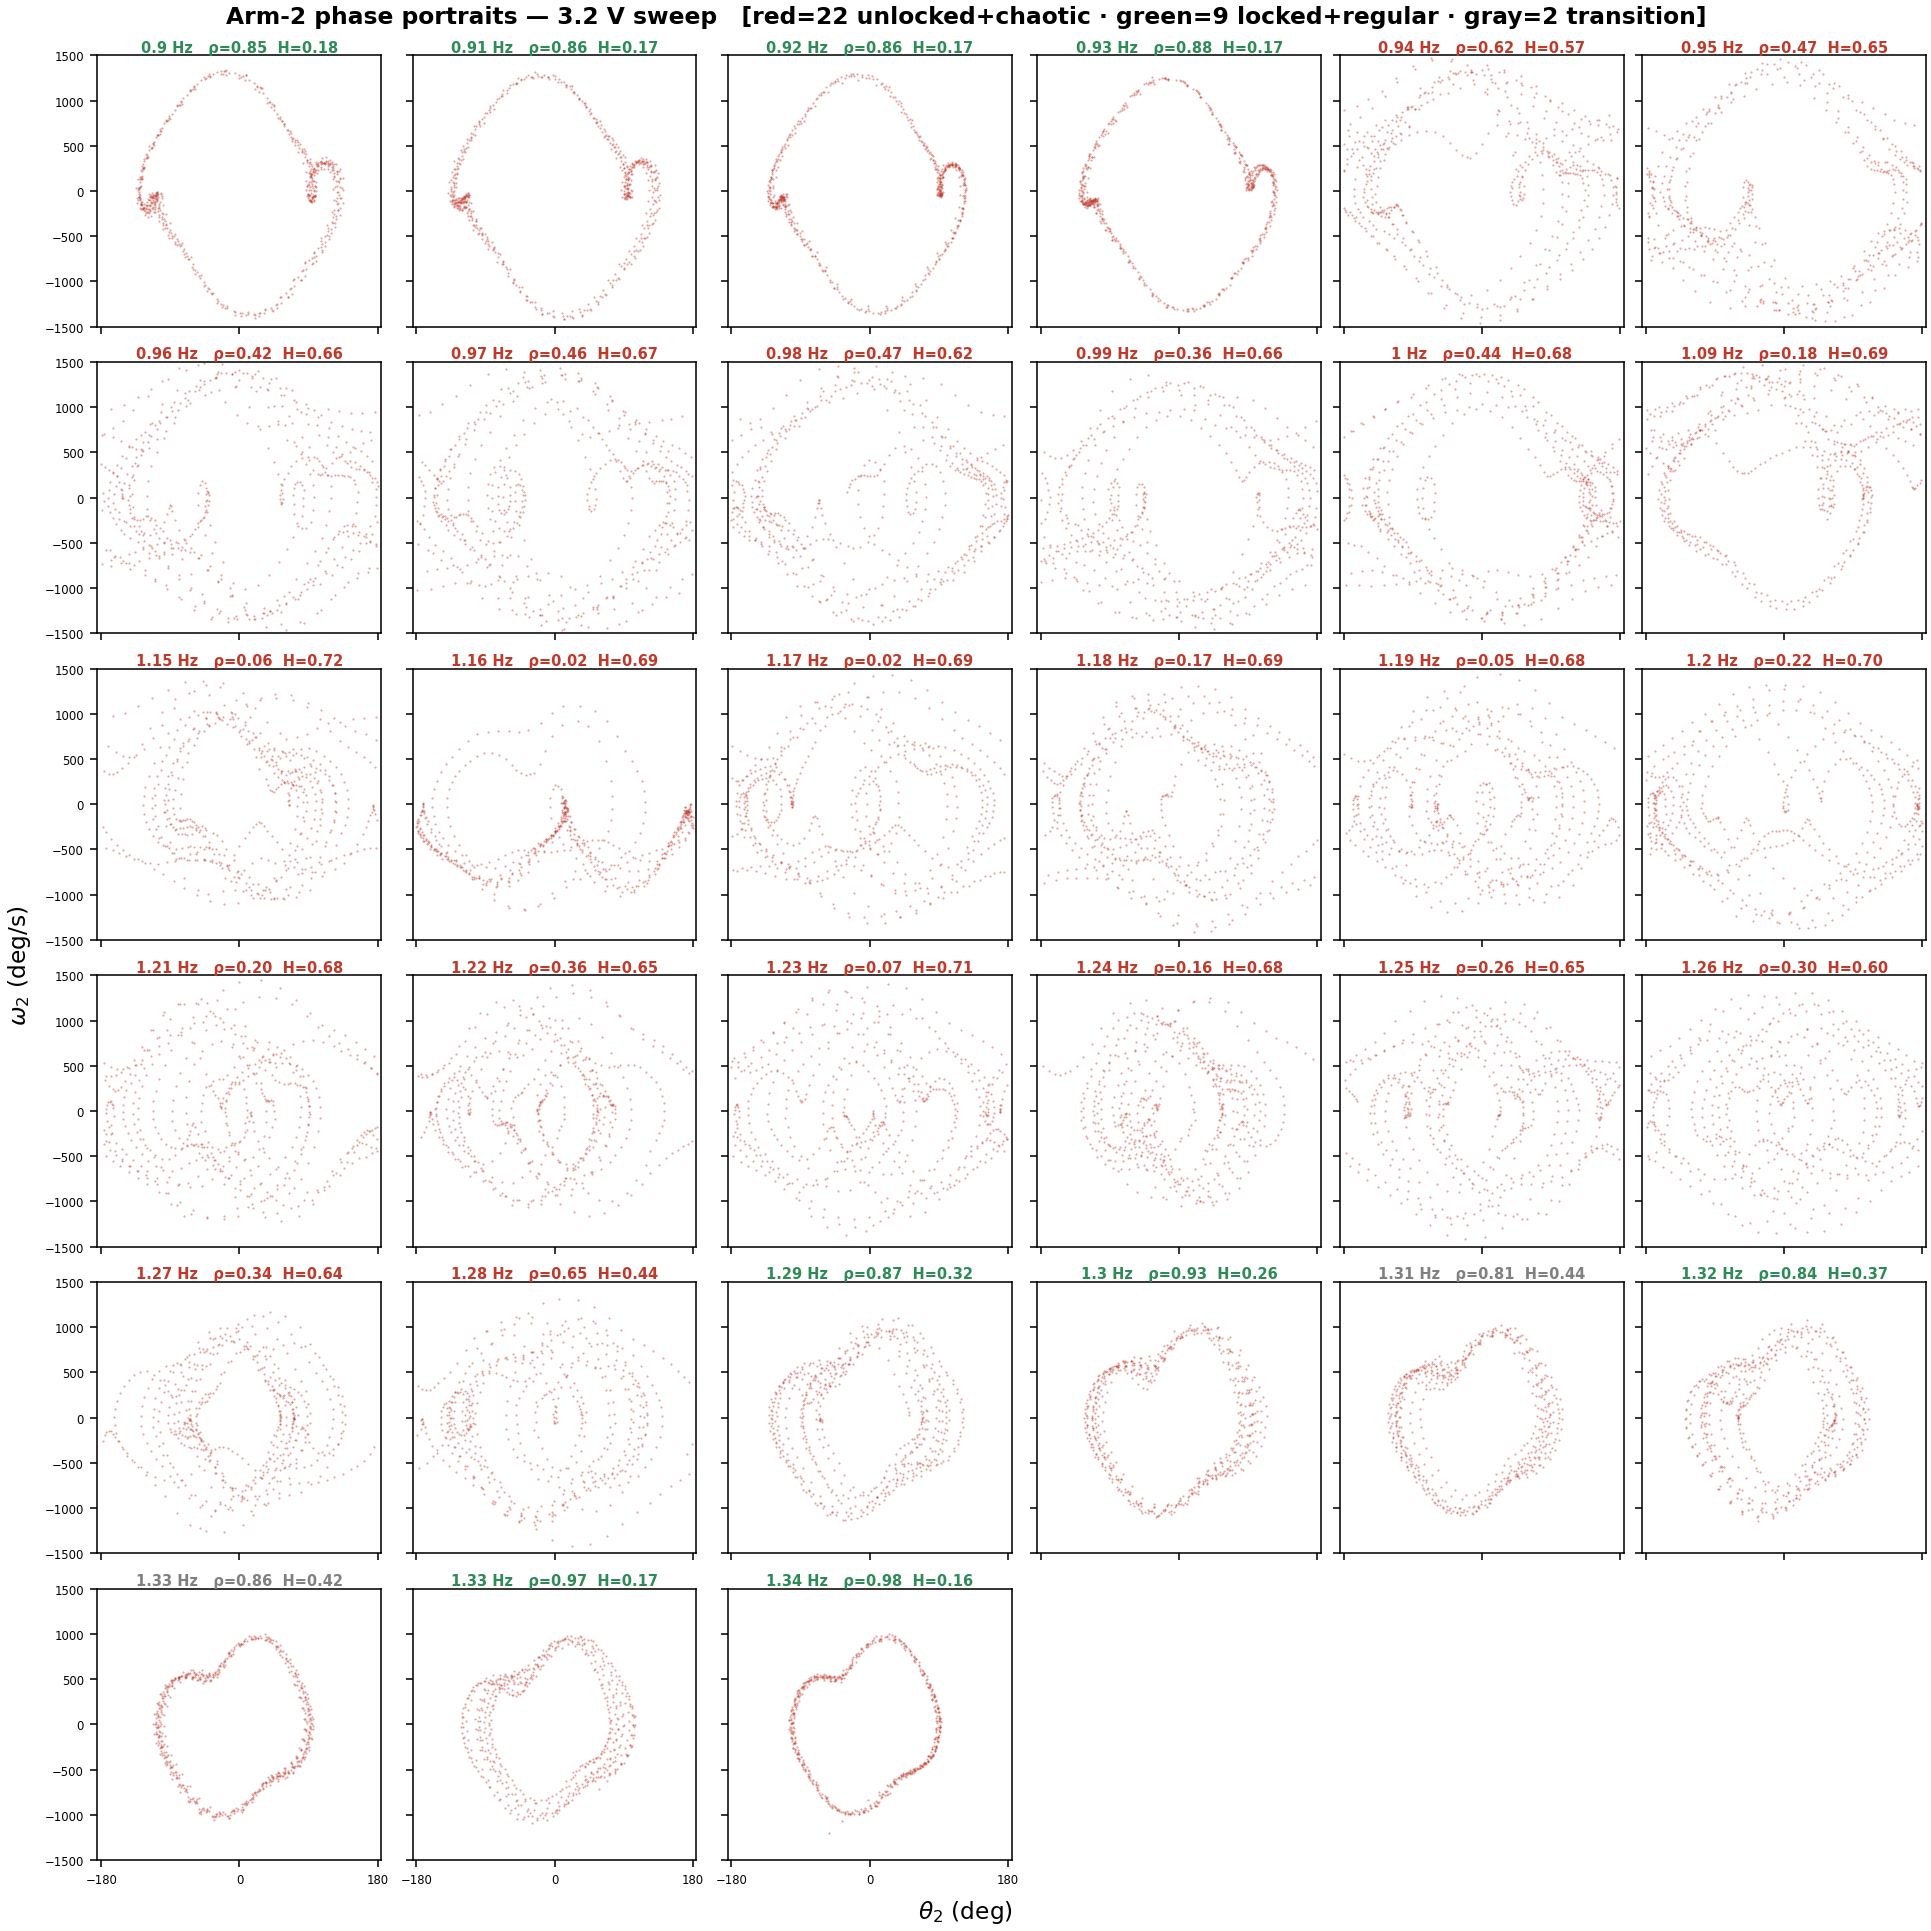
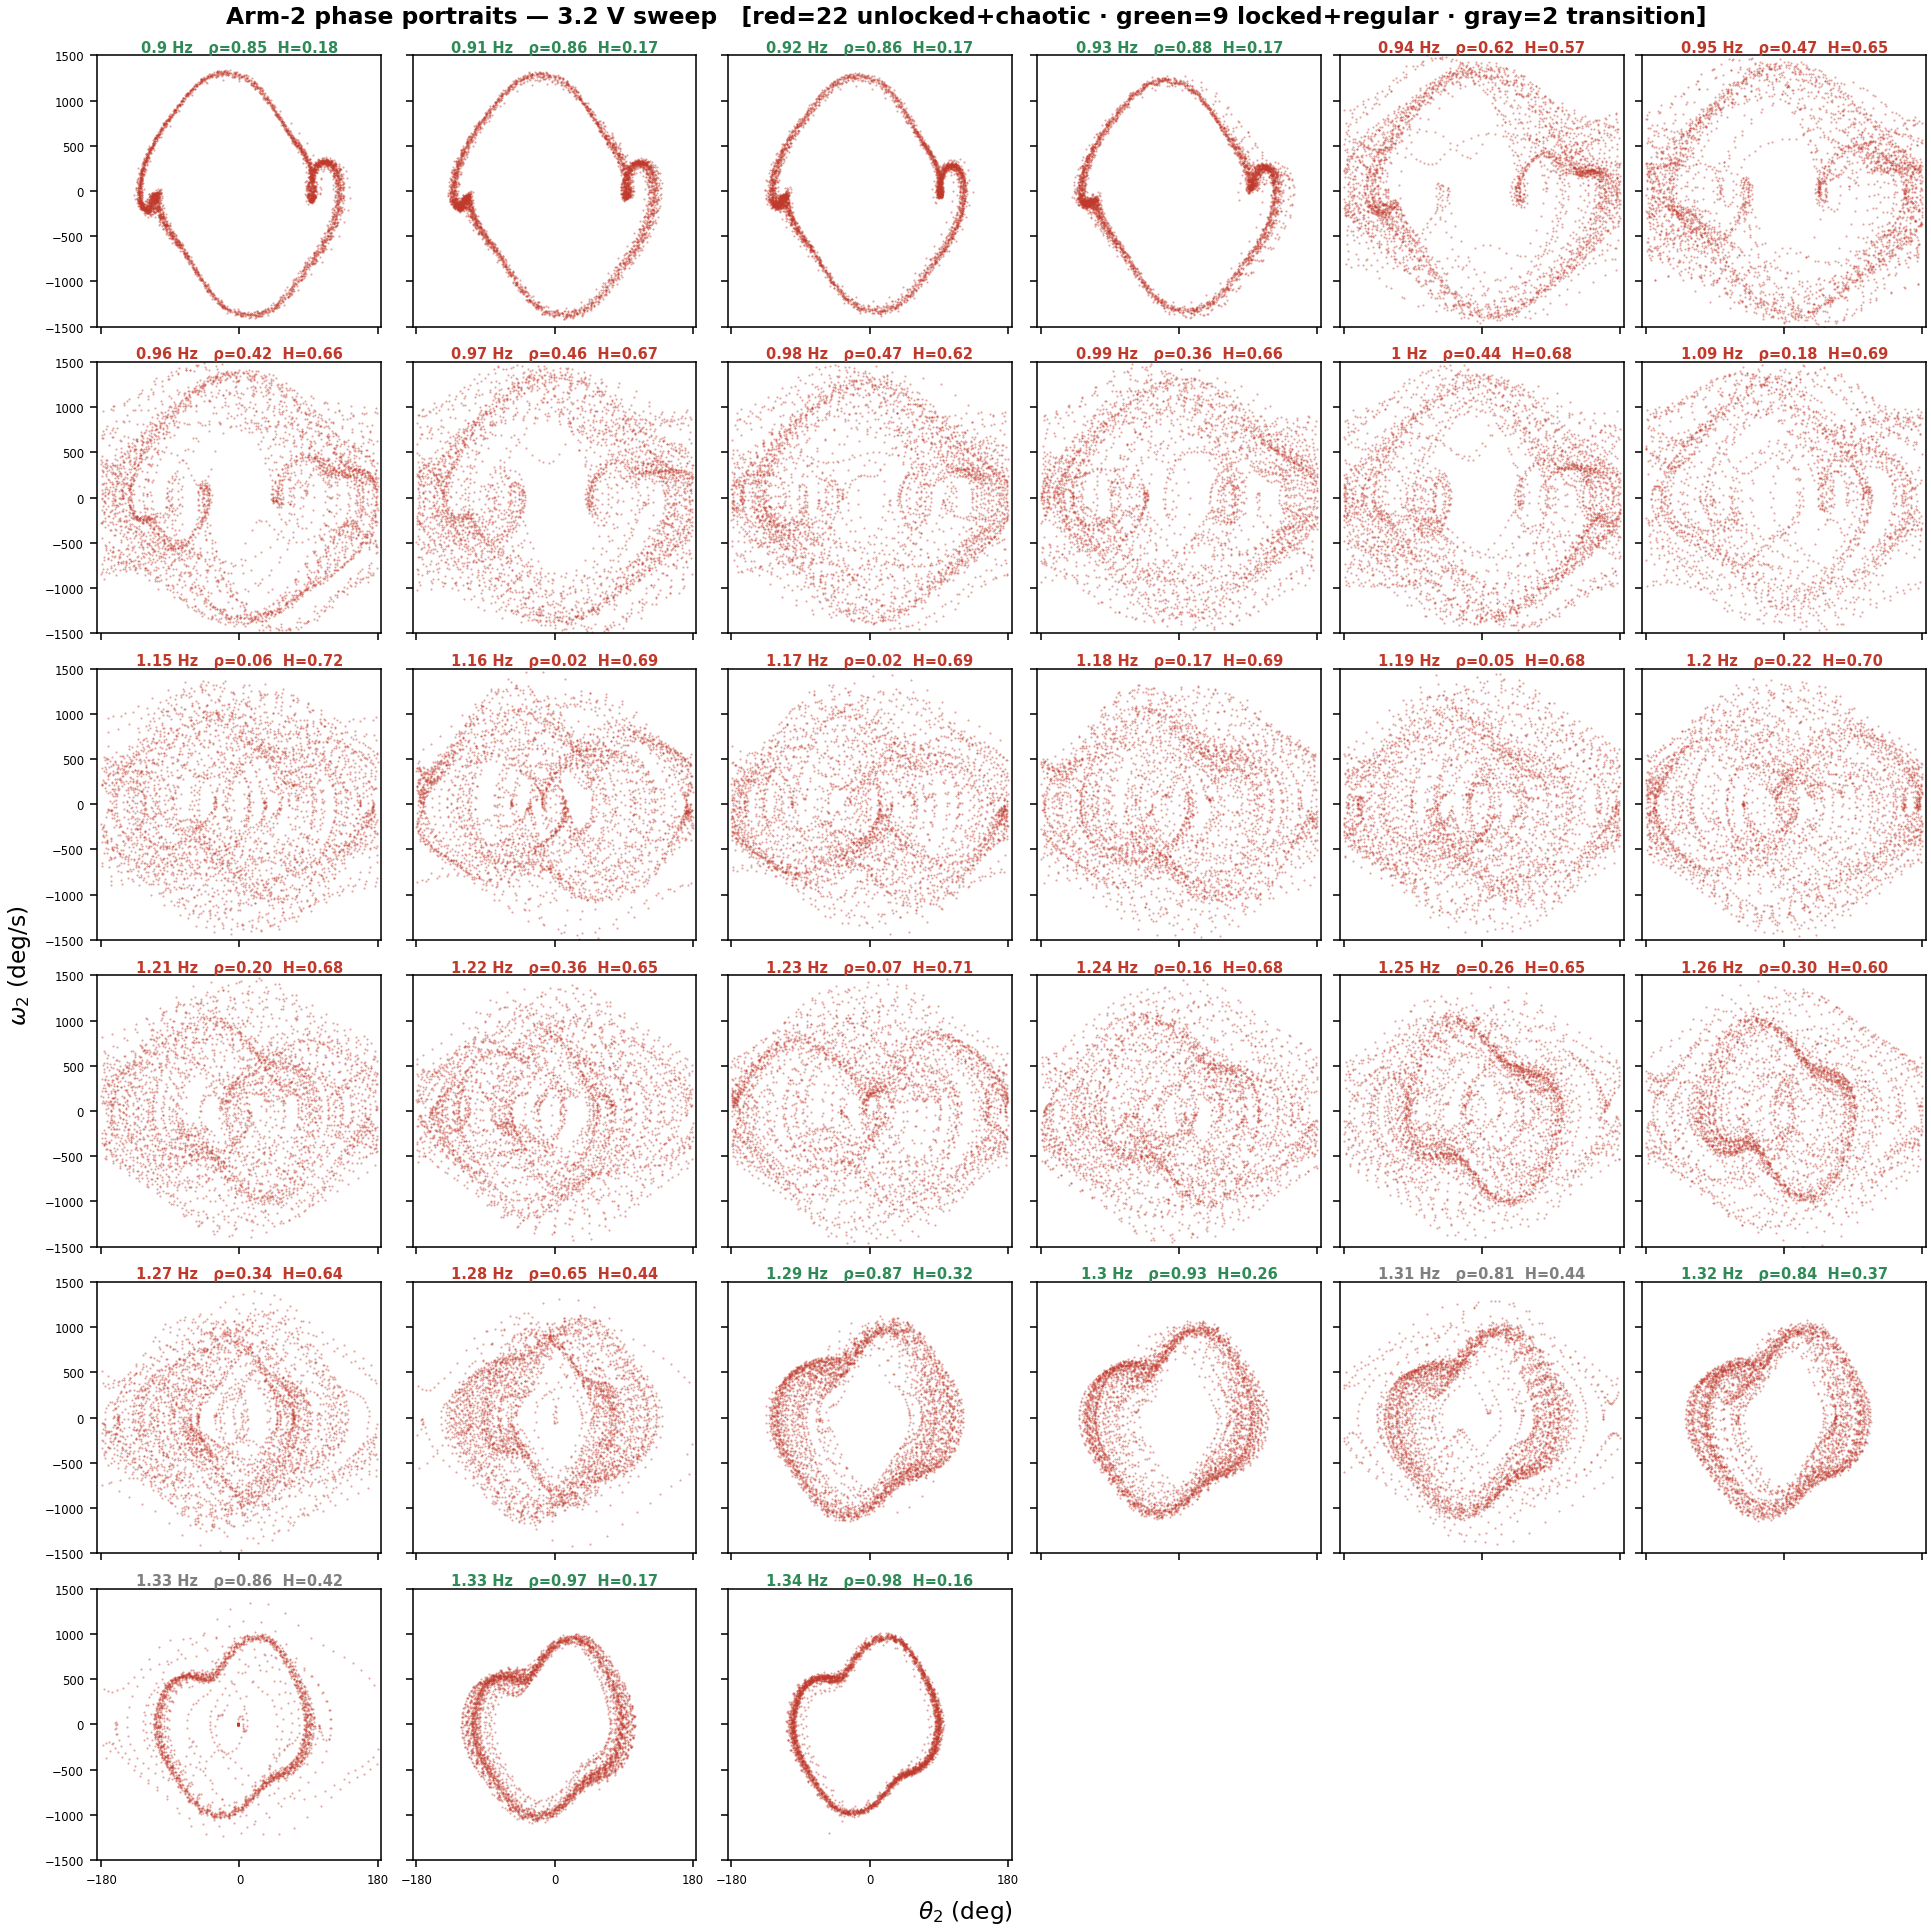
reports/final: portrait window 60s (denser attractors)
Add PORTRAIT_WINDOW_S=60 to report_common, decoupled from the 10s time-series
window — phase portraits want a denser attractor, the trace wants readability.
phase_portrait_grid and phase_portrait_row now default to the last 60s of each
clip; trajectories are crisp loops (regular) / filled clouds (chaotic) instead
of sparse. Same tail_window rule, just a longer window.

diff --git a/reports/final/scripts/phase_portrait_grid.py b/reports/final/scripts/phase_portrait_grid.py
@@ -41,7 +41,7 @@ matplotlib.use("Agg")
 import matplotlib.pyplot as plt
 
 from report_common import (
-    FIGURES_DIR, TIME_WINDOW_S, clip_dir, list_clips, tail_window, stem_freq,
+    FIGURES_DIR, PORTRAIT_WINDOW_S, clip_dir, list_clips, tail_window, stem_freq,
 )
 
 _REPO = os.path.normpath(os.path.join(os.path.dirname(__file__), "..", "..", ".."))
@@ -60,8 +60,8 @@ TINT = {"chaotic": ("#c0392b", 0.10), "regular": ("#2e8b57", 0.10),
 def parse_args():
     p = argparse.ArgumentParser(description="Arm-2 phase-portrait grid, tinted by phase-lock quadrant.")
     p.add_argument("--ncols", type=int, default=6, help="grid columns (default 6)")
-    p.add_argument("--window", type=float, default=TIME_WINDOW_S,
-                   help=f"steady-state tail window (s), default {TIME_WINDOW_S:g}")
+    p.add_argument("--window", type=float, default=PORTRAIT_WINDOW_S,
+                   help=f"steady-state tail window (s), default {PORTRAIT_WINDOW_S:g}")
     p.add_argument("--out", default=os.path.join(FIGURES_DIR, "phase_portrait_grid.png"))
     return p.parse_args()
 

diff --git a/reports/final/scripts/phase_portrait_row.py b/reports/final/scripts/phase_portrait_row.py
@@ -45,7 +45,7 @@ matplotlib.use("Agg")
 import matplotlib.pyplot as plt
 
 from report_common import (
-    FIGURES_DIR, TIME_WINDOW_S, clip_dir, tail_window, stem_freq,
+    FIGURES_DIR, PORTRAIT_WINDOW_S, clip_dir, tail_window, stem_freq,
     select_evenly, load_metrics, classify,
 )
 
@@ -62,8 +62,8 @@ def parse_args():
                    help="number of subplots / clips (default 5)")
     p.add_argument("--stems", default=None,
                    help="comma-separated stems (overrides --n auto-selection)")
-    p.add_argument("--window", type=float, default=TIME_WINDOW_S,
-                   help=f"steady-state tail window in seconds (default {TIME_WINDOW_S:g})")
+    p.add_argument("--window", type=float, default=PORTRAIT_WINDOW_S,
+                   help=f"steady-state tail window in seconds (default {PORTRAIT_WINDOW_S:g})")
     p.add_argument("--out", default=os.path.join(FIGURES_DIR, "phase_portrait_row.png"),
                    help="output png path")
     return p.parse_args()

diff --git a/reports/final/scripts/report_common.py b/reports/final/scripts/report_common.py
@@ -41,6 +41,10 @@ DATA_DIR = os.path.normpath(os.path.join(_HERE, "..", "data"))
 # so the "last N seconds, anchored at the end" rule stays identical.
 TIME_WINDOW_S = 10.0
 
+# Phase portraits want a denser attractor than the time-series trace wants
+# readability, so they use a longer steady-state window (same tail rule).
+PORTRAIT_WINDOW_S = 60.0
+
 # regime palette — repo convention: green = regular, red = chaotic
 COL_REGULAR = "#2e8b57"
 COL_CHAOTIC = "#c0392b"
